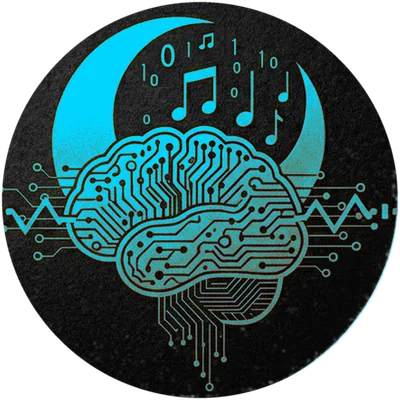
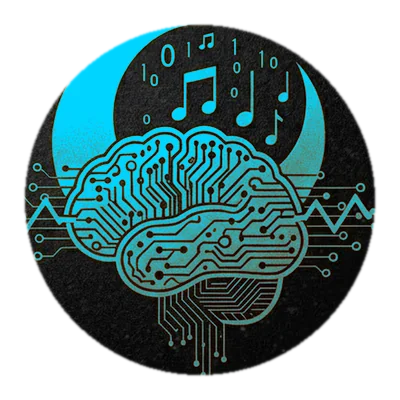
Emblem: hard re-clip at 400px scale + hero full-bleed + copy swap
Three related fixes shipping together:

1. Emblem was showing equalizer-bar tips escaping the circle on both
   sides at the site display size. Root cause: the 2000px canonical
   had a soft circular mask whose ~26px inset shrank to ~5px after
   downsampling to 400px, not enough to hide the outer bar segments.
   Fix: new scripts/reclip-emblems.py resamples the canonical to 400px
   then applies a hard circular mask (inset 24px, feather 1.0) at the
   display scale. Alpha bbox now 24-375 in the 400 canvas — clean
   circle, no visible bar tips.

2. Hero was constrained to main's max-width, so the circuit board
   bled off the right (looked intentional) but stopped visibly inset
   from the left edge (broke the illusion). Fix: move Hero out of
   main into a full-viewport-width band. Content stays centered via
   a new .hero-inner container (max-width 1080px + inline padding).
   Border-bottom and circuit board now span the whole viewport.

3. Identity swap: 'Hacker, designer, musician by night. Compliance
   engineer by day.' → 'Compliance expert by day. Hacker, designer,
   musician by night.' Day-role now leads (credibility hook first for
   client audience), 'engineer' → 'expert' matches the KYB advisor
   framing better. Meta title + description updated to match.

Changed region(s): [[0.0, 0.0, 1.0, 1.0]]

diff --git a/scripts/reclip-emblems.py b/scripts/reclip-emblems.py
@@ -1,0 +1,94 @@
+"""Post-resize circular clip for the site emblem assets.
+
+The canonical brand kit has a soft circular mask at 2000px, which loses
+precision when downsampled to 400px + WebP-compressed. Equalizer-bar tips
+that were subtly clipped at 2k become visibly poking out of the circle at
+400×0.85-quality WebP.
+
+Fix: after resize, re-apply a hard circular mask at the 400px scale
+(inset in absolute pixels), so anything outside the circle is definitively
+transparent in the final asset."""
+from pathlib import Path
+from PIL import Image, ImageDraw, ImageFilter
+import numpy as np
+
+SITE = Path("/Users/jordan_after_midnight/Projects/software/webdesign/public/brand")
+CANONICAL = Path("/Users/jordan_after_midnight/Projects/webdesign/Jordanaftermidnight-brand/01_PNG_Transparent")
+
+CYAN = (0, 212, 255)
+
+
+def hard_circular_clip(img: Image.Image, inset_px: int = 8, feather: float = 0.9) -> Image.Image:
+    """Apply a circular alpha mask centered on the artwork bbox.
+    Uses the SHORTER bbox dimension minus `inset_px` as the diameter,
+    so equalizer bars stretching the horizontal bbox don't fool it."""
+    img = img.convert("RGBA")
+    w, h = img.size
+    alpha = np.array(img.split()[-1])
+    ys, xs = np.where(alpha > 8)
+    left, right = xs.min(), xs.max()
+    top, bottom = ys.min(), ys.max()
+    bbox_w = right - left
+    bbox_h = bottom - top
+
+    diameter = min(bbox_w, bbox_h) - 2 * inset_px
+    radius = diameter / 2
+    cx = left + bbox_w / 2
+    cy = top + bbox_h / 2
+
+    mask = Image.new("L", (w, h), 0)
+    ImageDraw.Draw(mask).ellipse(
+        (int(cx - radius), int(cy - radius),
+         int(cx + radius), int(cy + radius)),
+        fill=255,
+    )
+    if feather > 0:
+        mask = mask.filter(ImageFilter.GaussianBlur(feather))
+    r, g, b, a = img.split()
+    new_a = Image.fromarray(
+        np.minimum(np.array(a), np.array(mask)).astype("uint8"), "L"
+    )
+    return Image.merge("RGBA", (r, g, b, new_a))
+
+
+def recolor_to_cyan(img: Image.Image, target=CYAN,
+                    dark_floor=60, gold_peak=200) -> Image.Image:
+    arr = np.array(img.convert("RGBA")).astype(np.float32)
+    r, g, b, a = arr[..., 0], arr[..., 1], arr[..., 2], arr[..., 3]
+    lum = 0.299 * r + 0.587 * g + 0.114 * b
+    weight = np.clip((lum - dark_floor) / (gold_peak - dark_floor), 0, 1)
+    brightness = np.clip(lum / gold_peak, 0, 1.0)
+    tr, tg, tb = target
+    nr = r * (1 - weight) + weight * tr * brightness
+    ng = g * (1 - weight) + weight * tg * brightness
+    nb = b * (1 - weight) + weight * tb * brightness
+    out = np.stack([nr, ng, nb, a], axis=-1).clip(0, 255).astype(np.uint8)
+    return Image.fromarray(out, "RGBA")
+
+
+def main():
+    # Source from the canonical (high-res, has whatever mask was last applied)
+    src_gold = Image.open(CANONICAL / "icon_emblem_only.png").convert("RGBA")
+    print(f"canonical size: {src_gold.size}")
+
+    # Resize to site display size (400px)
+    ratio = 400 / src_gold.width
+    resized_gold = src_gold.resize((400, int(src_gold.height * ratio)), Image.LANCZOS)
+
+    # Hard circular clip at the site scale — the equalizer bars in the
+    # source touch the circle edge; an inset of ~24px at 400px scale ends
+    # the bars visibly inside the circle, no illusion of "escaping tips."
+    clipped_gold = hard_circular_clip(resized_gold, inset_px=24, feather=1.0)
+    clipped_cyan = recolor_to_cyan(clipped_gold)
+
+    # Save both formats
+    for tag, img in [("gold", clipped_gold), ("cyan", clipped_cyan)]:
+        png_path  = SITE / f"icon-emblem-{tag}.png"
+        webp_path = SITE / f"icon-emblem-{tag}.webp"
+        img.save(png_path, "PNG", optimize=True)
+        img.save(webp_path, "WEBP", quality=85, method=6)
+        print(f"  {tag}: PNG {png_path.stat().st_size//1024}KB  WebP {webp_path.stat().st_size//1024}KB  ({img.size[0]}x{img.size[1]})")
+
+
+if __name__ == "__main__":
+    main()
